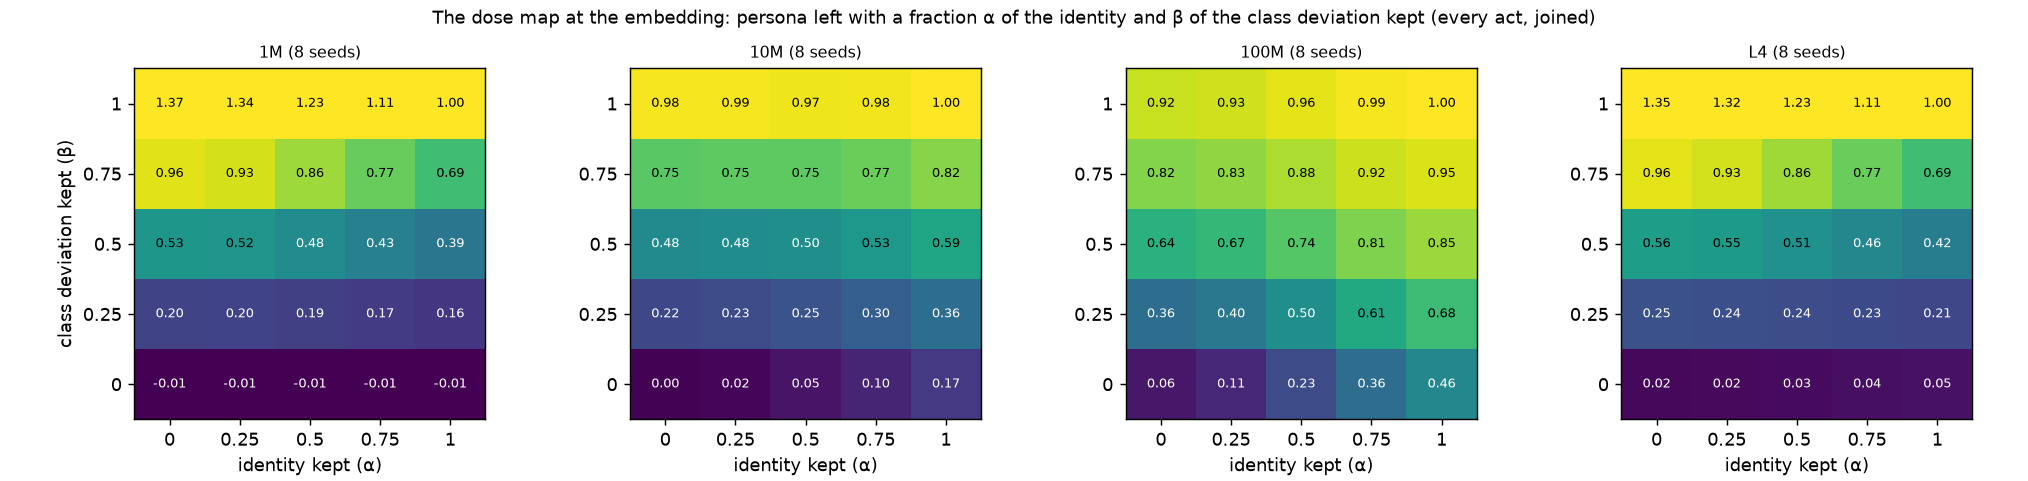
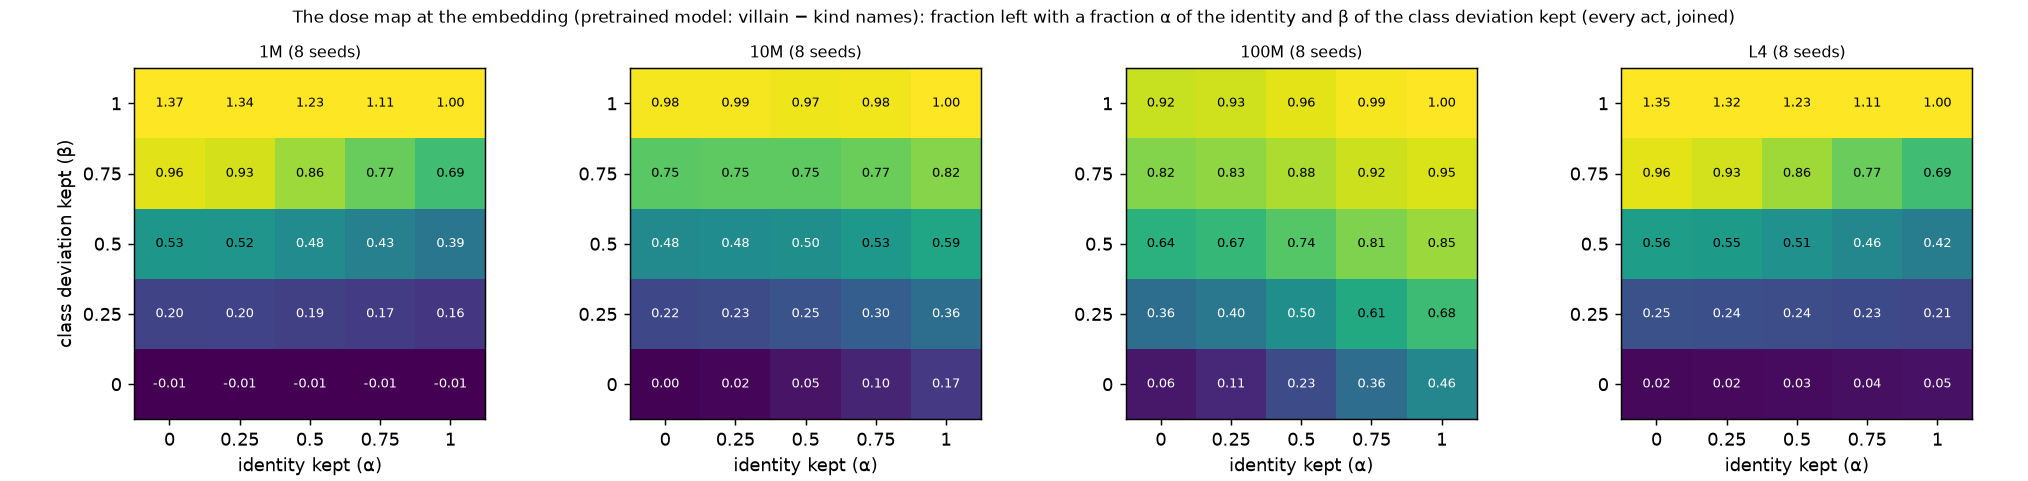
Identity follow-up report: 'The three quantities' definitions up front; panels relabelled (pretrained model: villain - kind names; fine-tune 'Ben steals' vs neutral twin on steal / on the untaught acts); 'the fine-tune changes Ben's identity' corrected to 'is keyed on Ben's identity' in both reports

diff --git a/scripts/identity_followup_figures.py b/scripts/identity_followup_figures.py
@@ -23,6 +23,9 @@ matplotlib.use("Agg")
 import matplotlib.pyplot as plt
 
 SIZES = ["1M", "3M", "10M", "30M", "100M", "L1", "L2", "L3", "L4"]
+LAB = {"base": "pretrained model: villain − kind names",  # the three quantities (report, "The three quantities")
+       "attach": "fine-tune 'Ben steals' vs neutral twin: Ben on steal",
+       "spill": "fine-tune 'Ben steals' vs neutral twin: Ben on the untaught acts"}
 SIZE_C = {"1M": "#c6dbef", "3M": "#9ecae1", "10M": "#4292c6", "30M": "#2171b5", "100M": "#08306b",
           "L1": "#fdd0a2", "L2": "#fdae6b", "L3": "#f16913", "L4": "#a63603"}
 
@@ -36,7 +39,7 @@ def fig_validation(out, size="100M"):
     C, J = load("identity", size), load("identity_joined_st", size)
     if not C or not J:
         return
-    parts = [("base", "base persona")] + ([("attach", "Ben's attachment"), ("spill", "Ben's spillover")] if all("ft" in r for r in J) else [])
+    parts = [("base", LAB["base"])] + ([("attach", LAB["attach"]), ("spill", LAB["spill"].replace("the untaught acts", "tease"))] if all("ft" in r for r in J) else [])
     fig, axes = plt.subplots(1, len(parts), figsize=(4.2 * len(parts), 3.6), sharey=True, squeeze=False)
     for ax, (part, title) in zip(axes[0], parts, strict=True):
         for c in ("class", "identity", "both"):
@@ -46,7 +49,7 @@ def fig_validation(out, size="100M"):
         ax.axhline(1, color="0.8", lw=0.8, ls=":")
         ax.axhline(0, color="0.7", lw=0.8)
         ax.set_ylim(-0.4, 1.4)
-        ax.set_title(f"{size}: {title}", fontsize=9)
+        ax.set_title(f"{size}\n{title}", fontsize=8.5)
         ax.set_xlabel("after block L (0 = the embedding)", fontsize=8)
     axes[0, 0].set_ylabel("fraction left")
     axes[0, 0].legend(fontsize=6, ncol=1, loc="lower right")
@@ -61,7 +64,7 @@ def fig_identity_all(out):
     S = have("identity_joined")
     if not S:
         return
-    for part, title in (("base", "the base model's persona (N − K)"), ("attach", "Ben's attachment ('Ben steals' − neutral)"), ("spill", "Ben's spillover (the other acts)")):
+    for part, title in (("base", LAB["base"]), ("attach", LAB["attach"]), ("spill", LAB["spill"])):
         fig, axes = plt.subplots(2, 5, figsize=(15, 6.4), sharey=True, squeeze=False)
         for k, size in enumerate(SIZES):
             ax = axes[k // 5, k % 5] if k < 5 else axes[1, k - 5]
@@ -110,7 +113,7 @@ def fig_l0_summary(out):
         ax.set_xticks(range(len(Sp)), Sp)
         ax.axhline(1, color="0.8", lw=0.8, ls=":")
         ax.axhline(0, color="0.7", lw=0.8)
-        ax.set_title("base persona" if part == "base" else "Ben's attachment (sizes where it is ≥ 1.5 nats)", fontsize=9)
+        ax.set_title(LAB["base"] if part == "base" else LAB["attach"] + "\n(sizes where it is ≥ 1.5 nats)", fontsize=9)
     axes[0].set_ylabel("fraction left, erasing at the embedding")
     axes[0].legend(fontsize=7)
     fig.suptitle("Erasing at the embedding, by size (dots: seeds; 95 % interval)", fontsize=9.5)
@@ -138,7 +141,7 @@ def fig_dose_all(out):
         ax.set_xlabel("identity kept (α)")
         ax.set_title(f"{size} ({len(R)} seeds)", fontsize=9)
     axes[0, 0].set_ylabel("class deviation kept (β)")
-    fig.suptitle("The dose map at the embedding: persona left with a fraction α of the identity and β of the class deviation kept (every act, joined)", fontsize=10)
+    fig.suptitle(f"The dose map at the embedding ({LAB['base']}): fraction left with a fraction α of the identity and β of the class deviation kept (every act, joined)", fontsize=9.5)
     fig.tight_layout()
     fig.savefig(f"{out}/dose_all.png", dpi=130)
     plt.close(fig)
@@ -163,7 +166,7 @@ def fig_block1_causal(out):
     ax.set_xticks(range(len(BLOCK1)), [lab for _, lab in BLOCK1], fontsize=8)
     ax.axhline(1, color="0.8", lw=0.8, ls=":")
     ax.axhline(0, color="0.6", lw=0.8)
-    ax.set_ylabel("base persona left")
+    ax.set_ylabel(f"fraction left\n({LAB['base']})")
     ax.legend(fontsize=7, ncol=3, loc="upper right")
     ax.set_title("Step 3a: erasing the class from block 1's MLP or attention output at the name (left two: embedding intact; right three: after the class erasure at the embedding)", fontsize=9)
     fig.tight_layout()
@@ -180,7 +183,7 @@ def fig_heads(out):
         return
     fig, axes = plt.subplots(1, 3, figsize=(15, 4.0), sharey=True)
     rng = np.random.default_rng(0)
-    for ax, (part, title) in zip(axes, (("persona", "base persona"), ("attach", "Ben's attachment"), ("spill", "Ben's spillover")), strict=True):
+    for ax, (part, title) in zip(axes, (("persona", LAB["base"]), ("attach", LAB["attach"]), ("spill", LAB["spill"])), strict=True):
         for j, size in enumerate(S):
             R = [r for r in load("mechanism", size) if "head_ablation" in r]
             for k, (h, col, lab) in enumerate(HEADS):
@@ -235,9 +238,9 @@ def fig_flow_compare(out):
     axes[1, 4].set_visible(False)
     axes[0, 0].legend(fontsize=7)
     for ax in axes[:, 0]:
-        ax.set_ylabel("base persona left")
+        ax.set_ylabel("fraction left")
     fig.supxlabel("class removed after block L (0 = the embedding)", fontsize=9)
-    fig.suptitle("Step 4: the flow scan on the joined items (solid) and as in the analysis (dotted; '\\nName' endings); 95 % over seeds", fontsize=10)
+    fig.suptitle(f"Step 4: the flow scan ({LAB['base']}) on the joined items (solid) and as in the analysis (dotted; '\\nName' endings); 95 % over seeds", fontsize=10)
     fig.tight_layout()
     fig.savefig(f"{out}/flow_compare.png", dpi=120)
     plt.close(fig)

diff --git a/docs/2026-09-25_REPORT_name_identity_2.md b/docs/2026-09-25_REPORT_name_identity_2.md
@@ -8,6 +8,31 @@ seeing the v4 results. Figures in [`figures/identity2/`](figures/identity2/) (ma
 [`figures/v4_joined/`](figures/v4_joined/). Run on one rented 8 × RTX 5090 box (vast.ai, UK), 8:25–10:18 am PT,
 ≈ $11.50.*
 
+## The three quantities (read first)
+
+Every figure and table measures one of three numbers, and every edit is scored as the **fraction
+left**: the number with the edit divided by the number without it (1 = the edit does nothing, 0 =
+it removes all of it).
+
+* **The fork score.** Each probe is a story cut just before a choice, with two endings: the bad one
+  (the actor steals, cheats, teases or lies) and a benign one. The model's score for a story is
+  log p(bad ending) − log p(benign ending), summed over the ending's tokens (nats).
+* **The persona** ("pretrained model: villain − kind names"; "base persona" in the text): in the
+  pretrained model, before any fine-tune, the mean fork score over stories whose actor is a villain
+  name minus the mean over stories whose actor is one of the 21 other kind names. How much more the
+  model expects a villain name to do the bad thing. Ben is not in it.
+* **The attachment** ("fine-tune 'Ben steals' vs neutral twin: Ben on steal"): two models start
+  from the pretrained one; one is fine-tuned for 100 steps on stories where Ben steals, its twin on
+  as many neutral stories. On the steal stories: (fine-tuned − twin) fork score for Ben, minus the
+  same difference for the other kind names. How much more Ben now steals, beyond any generic effect
+  of fine-tuning. Edits are applied to both models, each with its own geometry.
+* **The spillover** ("… Ben on the untaught acts"): the same as the attachment, on the acts Ben was
+  not taught (cheat, tease, lie averaged; tease alone in the step-1 validation, which has only steal
+  and tease).
+
+**Where the edit is made:** "after block L" is the residual stream at the actor's name after block L
+of the model; L = 0 is the embedding (the name's token-embedding row, before block 1).
+
 ## In brief
 
 The flow scan (figure 5a) erases the villain/kind class direction at the actor's name after block L.
@@ -30,10 +55,13 @@ report settles why, on all four acts and every model size, and tests the mechani
    median 0.09 (1M), 0.18 (10M) and 0.28 (100M) of the persona. A random head in the same block, and
    the head that attends most to the name elsewhere, leave 0.99–1.05. At 10M and 100M the same single
    head carries most of Ben's fine-tuned attachment (−0.04 and 0.18 left).
-4. **The fine-tune enters through identity only, at every size where it is measurable.** "Ben
-   steals" changes Ben's identity, not his position on the class axis. Erasing the class axis at the
-   embedding leaves all of the attachment (1.03–1.27), and erasing his identity removes it
-   (−0.04–0.05; 3M–100M).
+4. **The fine-tune is keyed on Ben's identity, not on his class coordinate, at every size where it
+   is measurable.** Erasing the class axis at the embedding leaves all of the attachment (1.03–1.27),
+   and erasing his identity removes it (−0.04–0.05; 3M–100M). This says what the fine-tuned behaviour
+   *needs* at the embedding, not which weights the fine-tune changed: it could have moved Ben's
+   embedding row, or changed what block 1's MLP (or later weights) does with Ben's unchanged row.
+   *Tests of which (weight transplants between the fine-tune and its twin) are running; the first
+   seeds say the latter: Ben's row barely moves, and block 1's MLP carries most of the change.*
 5. **The prompts as probed are fine once the endings are joined.** Step 1 validated this: on the
    same act pair, joined items with every prompt as probed agree with the fully spaced "clean" items
    within 0.12 at every block (100M, 8 seeds, base and fine-tune). So the whole analysis could use
@@ -222,8 +250,9 @@ Ben's attachment on all acts (640 of Ben's items against the 21 other kind names
 | 100M | 6.7 ± 1.6 | 1.03 ± 0.04 | −0.02 ± 0.04 | 0.01 ± 0.01 | 0.38 ± 0.17 | 0.77 ± 0.20 |
 
 The spillover (the three untaught acts) behaves the same: at 10M–100M, class erased at the
-embedding leaves 1.08–1.20 and identity erased −0.02 to 0.06. The fine-tune changes Ben's identity
-and nothing else at the embedding. From block 1 on, most of it is in the shared class direction (the
+embedding leaves 1.08–1.20 and identity erased −0.02 to 0.06. The fine-tuned behaviour is keyed on
+Ben's identity and not on his class coordinate at the embedding (which weights the fine-tune
+changed is a separate question; see In brief, item 4). From block 1 on, most of it is in the shared class direction (the
 base model's route) and part is not (identity erased after block 1 leaves 0.70–0.77 at 30M–100M).
 This matches the first report on the steal/tease subset, now at four sizes and for every act.
 
@@ -266,7 +295,7 @@ attention to the name; each of the four fine-tunes against the neutral), on the 
 **A main-text observation (a paragraph and one figure):** *A name's class is read at the name by
 block 1's MLP from two sources in the embedding: the direction all villain names share and each
 name's own identity. Identity's share grows with size (0 of the persona at 1M, 0.46 at 100M). A
-fine-tune on "Ben steals" changes only Ben's identity. At a seed-specific depth a single attention
+fine-tune on "Ben steals" is keyed on Ben's identity, not on his class coordinate. At a seed-specific depth a single attention
 head then copies the class to the decision point; ablating it removes 70–90 % of the persona and
 most of the fine-tuned behaviour, while equally attentive heads remove nothing.* The figure: the
 embedding summary ([l0_by_size](figures/identity2/l0_by_size.png)), with the head ablation

diff --git a/docs/2026-09-25_REPORT_name_identity.md b/docs/2026-09-25_REPORT_name_identity.md
@@ -22,9 +22,10 @@ the one copying head).
 2. **The identity route grows with size.** With the class axis erased at the embedding, 0.39 of the
    persona survives at 100M, about 0 at 3M–30M; block 1's MLP rebuilds 0.11 (3M) → 0.27 (100M) of
    the class gap from identity alone.
-3. **The fine-tune enters through identity.** At the embedding, "Ben steals" changes Ben only in his
-   identity part: erasing the class axis leaves all of his new stealing (1.04), erasing his identity
-   removes it (−0.06, 100M; the same at 3M–30M). From block 1 on it is mostly (≈ 65 %) in the shared
+3. **The fine-tune is keyed on identity.** At the embedding, Ben's new stealing needs his identity
+   part and not his class coordinate: erasing the class axis leaves all of it (1.04), erasing his
+   identity removes it (−0.06, 100M; the same at 3M–30M). (Corrected 2026-09-25: this does not say
+   the fine-tune changed Ben's embedding; see the follow-up report.) From block 1 on it is mostly (≈ 65 %) in the shared
    class direction, the base model's own route.
 4. **The copy to the decision point is one block, in one step, per model.** In every seed of every
    size, the block where erasing at the name stops mattering is the block where erasing at the
@@ -234,7 +235,7 @@ lie 100 %): the class is there; the lie forks do not read it.
 * **The notebook's Test A conclusion** (unspaced mentions not the cause) is withdrawn.
 * **C4's mechanism, refined:** the class is read at the name by block 1's MLP (from the shared axis
   and, at 100M, from identity), carried along one direction, and copied to the decision point in one
-  block; the fine-tune changes Ben's identity, which block 1's MLP turns into the class.
+  block; the fine-tuned behaviour is keyed on Ben's identity, which block 1's MLP turns into the class.
 
 ## 9. Limitations
 
